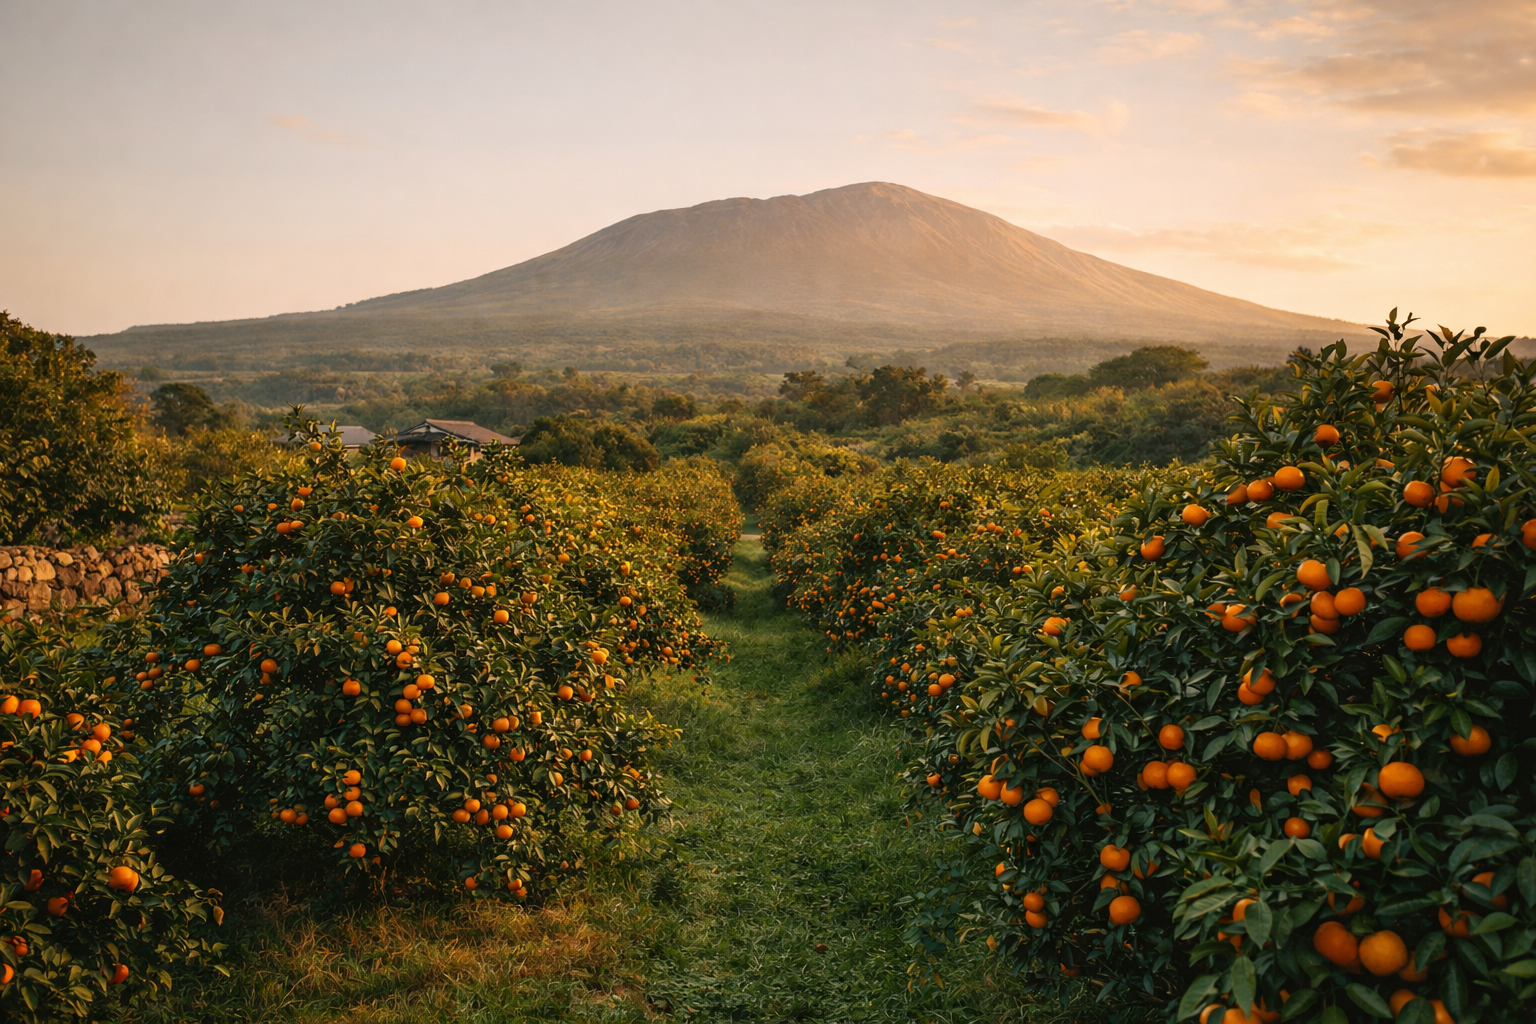
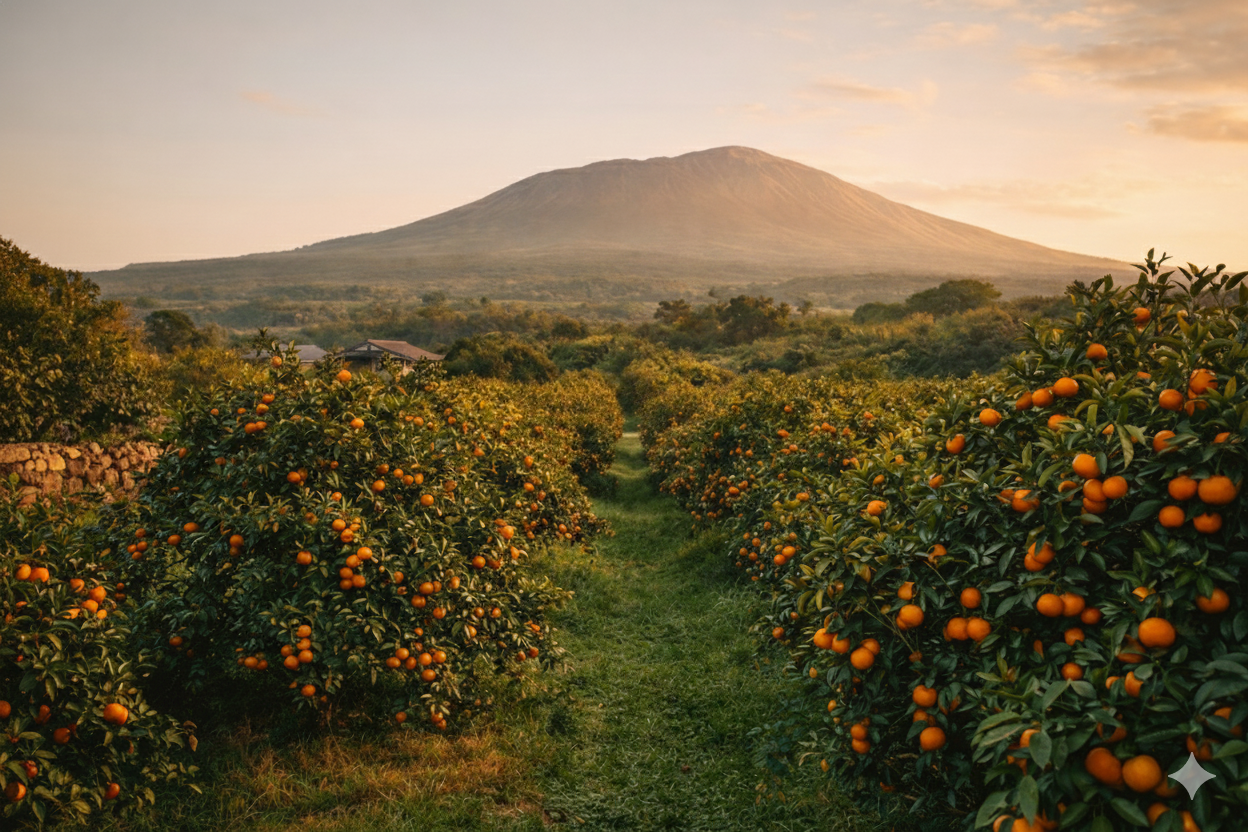
design jeju gyul 2

diff --git a/jeju-gyul-site/src/index.css b/jeju-gyul-site/src/index.css
@@ -28,10 +28,12 @@ a:hover {
 
 body {
   margin: 0;
-  display: flex;
-  place-items: center;
+  padding: 0;
+  display: block; 
+  width: 100%;
   min-width: 320px;
   min-height: 100vh;
+  overflow-x: hidden; /* 가로 스크롤 방지 */
 }
 
 h1 {
@@ -119,11 +121,12 @@ button:focus-visible {
   letter-spacing: 0.0.3em;   /* 🔥 글자 간격 */
   color: #222;
   cursor: pointer;
+  transition: color 0.3s ease; /* 부드러운 색상 변경을 위해 추가 */
 }
 
 /* hover 시 컬러 */
 .header-nav > ul > li:hover {
-  color: #ff7a00;
+  color: #2D5A27;
 }
 
 /* 2차 메뉴 */
@@ -131,10 +134,11 @@ button:focus-visible {
   position: absolute;
   top: 140%;
   left: 0;
-  background: white;
+  background: #ffffffef;
   padding: 12px 0;
   min-width: 160px;
   border-radius: 12px;
+  border-top: 3px solid #446140;
   box-shadow: 0 10px 30px rgba(0,0,0,0.08);
   list-style: none;
   display: block;
@@ -159,46 +163,150 @@ button:focus-visible {
   color: #444;
   white-space: nowrap;
   text-align: left;
+  transition: all 0.2s ease;
 }
 
 .header-nav ul li ul li:hover {
-  background: #fff3e6;
-  color: #ff7a00;
+  background: #f0f5ee;
+  color: #2D5A27;
 }
-/* --------------------------------------------------------- */
+/* -------------------------------------------------------------------------- */
 .section {
   height: 100vh;
   width: 100%;
-  padding: 120px 96px;   /* 헤더 아래 여백 */
+  padding: 0;   /* 헤더 아래 여백 */
   box-sizing: border-box;
 }
 .section.history {
+  height: 100vh;
+  width: 100vw;
   background-size: cover;
   background-position: center;
-  color: white;
-  background-size: 150% auto;
-  background-repeat: no-repeat;
   display: flex;
   flex-direction: column;
-  justify-content: center;
-  gap: 24px;
+  /* 가로 세로 정중앙 배치 */
+  justify-content: center; 
+  align-items: center;
+  text-align: center;
+  
+  /* 중요: 기존 padding 120px 96px; 때문에 아래로 밀렸던 것을 제거합니다 */
+  padding: 0 20px; 
+  
+  /* 중앙에서 약간 위로 올리고 싶을 때 사용하는 팁 */
+  padding-bottom: 5vh; 
 }
 .section.products {
   background: #fff7ed;   /* 감귤 껍질 톤 */
 }
 
+/* 제목 스타일 수정 */
 .section h2 {
-  font-size: 36px;
-  margin-bottom: 40px;
+  font-size: 80px;
+  font-family: 'Times New Roman', Times, serif;
+  color: #ff7a00;
+  /* 기존 margin-bottom: 40px;가 너무 넓다면 20px 정도로 줄입니다 */
+  margin-bottom: 60px; 
   position: relative;
 }
 
+/* 제목 밑의 오렌지 라인을 중앙으로 */
+/* 오렌지 라인 중앙 정렬 */
 .section h2::after {
   content: "";
   position: absolute;
-  bottom: -20px;
-  left: 0;
-  width: 80px;
-  height: 4px;
+  bottom: -25px;
+  left: 50%;
+  transform: translateX(-50%);
+  width: 100px;
+  height: 5px;
   background: #ff7a00;
+}
+
+/* 본문 텍스트 스타일 */
+/* 텍스트들 사이의 간격 조정 */
+/* 본문 텍스트 스타일 공통 */
+.section p {
+  color: white;
+  line-height: 1.6;
+  word-break: keep-all; /* 단어 단위 줄바꿈 */
+}
+/* 상단 문구: 한라산 바람과 햇살... */
+.section p.sub-title {
+  font-size: 2rem;   /* 크기 키움 */
+  font-weight: 500;
+  font-family: 'Times New Roman', Times, serif;
+  margin-top: 40px;    /* 제목과 거리를 둬서 아래로 내림 */
+  opacity: 0.9;
+}
+
+/* 하단 문구: 한라봉, 레드향... */
+.section p.description {
+  font-size: 1.5rem;  /* 살짝 작게 해서 밸런스 유지 */
+  margin-top: 10px;
+  font-weight: 300;
+  opacity: 0.8;
+}
+
+/* ---------------------------------------------------------------------------- */
+
+/* 제품 섹션 배경 및 여백 */
+.product-section {
+  padding: 100px 5%;
+  background-color: #dfd7d7; /* 아주 연한 귤색 배경 */
+}
+
+/* 카드 스타일: 가로 배치 */
+.product-card {
+  display: flex;
+  align-items: flex-start; /* 상단 정렬 */
+  margin-bottom: 25px;
+  border-radius: 12px;
+  overflow: hidden; /* 이미지가 튀어나오지 않게 */
+  box-shadow: 0 4px 20px rgba(0,0,0,0.05);
+  transition: all 0.3s ease;
+  padding: 50px; /* 카드 안쪽 전체 여백 */
+  background:
+    radial-gradient(circle at 30% 20%, rgba(255, 210, 160, 0.08), transparent 60%),
+    #FFF6EB;
+}
+
+.product-card:hover {
+  transform: translateX(10px); /* 호버 시 옆으로 살짝 미는 효과 */
+}
+
+/* 사진 영역: 크기를 제한해서 왼쪽으로 밀기 */
+.product-image-side {
+  width: 400px; /* 사진 크기를 여기서 조절하세요 */
+  height: 250px;
+  flex-shrink: 0; /* 사진이 찌그러지지 않게 고정 */
+}
+
+.product-image-side img {
+  width: 100%;
+  height: 100%;
+  object-fit: cover; /* 사진이 비율에 맞춰 꽉 차게 */
+}
+
+/* 텍스트 영역: 남은 공간 모두 차지 */
+.product-text-side {
+  padding: 0 40px;
+  flex-grow: 1;
+  text-align: left;
+}
+
+.product-text-side h3 {
+  font-family: 'Times New Roman', 'Noto Serif KR', serif;
+  font-size: 32px;    /* 제목 크기 확장 */
+  font-weight: 700;
+  color: #2D5A27;    /* 귤잎 색상 */
+  margin: 0 0 20px 0; /* 위쪽 여백은 0, 아래쪽만 20px */
+}
+
+.product-text-side p {
+  font-size: 18px;
+  font-family: 'Franklin Gothic Medium', 'Arial Narrow', Arial, sans-serif;
+  color: #444;
+  line-height: 1.8;
+  margin: 0;         /* 기본 마진 제거 */
+  word-break: keep-all;
 }

diff --git a/jeju-gyul-site/src/components/Hero/HeroSection.tsx b/jeju-gyul-site/src/components/Hero/HeroSection.tsx
@@ -5,18 +5,36 @@ export default function HeroSection() {
     <section
       className="section history"
       style={{
+        /* 배경 이미지 설정 */
         backgroundImage: `
           linear-gradient(rgba(0,0,0,0.45), rgba(0,0,0,0.45)),
           url(${hisTory})
-        `
+        `,
+        /* 꽉 채우기 위한 강제 설정 */
+        width: '100vw',        // 화면 가로 100% 강제
+        height: '100vh',       // 화면 세로 100% 강제
+        backgroundSize: 'cover',   // 비율 깨짐 방지하며 꽉 채움
+        backgroundPosition: 'center', // 중앙 기준
+        backgroundRepeat: 'no-repeat',
+        margin: '0',
+        padding: '0',
+        display: 'flex',
+        flexDirection: 'column',
+        justifyContent: 'center',
+        alignItems: 'center',
+        color: 'white',
+        position: 'relative',
+        left: '50%',
+        right: '50%',
+        marginLeft: '-50vw',   // 부모 요소가 좁아도 화면 끝까지 강제로 늘리는 트릭
+        marginRight: '-50vw'
       }}
     >
       <h2 className='section h2'>제주에서 온 가장 달콤한 귤</h2>
-      <p>
+      <p className='sub-title'>
         한라산 바람과 햇살로 키운 프리미엄 감귤 브랜드,
         JEJU GYUL
       </p>
-
       <p>
         한라봉, 레드향, 천혜향까지 —
         제주가 키운 최고의 귤을 만나보세요.

diff --git a/jeju-gyul-site/src/components/Product/ProductCard.tsx b/jeju-gyul-site/src/components/Product/ProductCard.tsx
@@ -6,12 +6,19 @@ interface Props {
 
 export default function ProductCard({ product }: Props) {
   return (
+  <section className="product-section">  
     <div className="product-card">
-      {product.image && (
-        <img src={product.image} alt={product.name} />
-      )}
-      <h3>{product.name}</h3>
-      <p>{product.description}</p>
+      <div className="product-image-side">
+        {product.image && (
+          <img src={product.image} alt={product.name} />
+        )}
+      </div>
+
+      <div className="product-text-side">
+        <h3>{product.name}</h3>
+        <p>{product.description}</p>
+      </div>
     </div>
+  </section>  
   )
 }

diff --git a/jeju-gyul-site/src/components/Product/ProductSection.tsx b/jeju-gyul-site/src/components/Product/ProductSection.tsx
@@ -1,6 +1,6 @@
 import type { Product } from '../../types/product'
 import ProductCard from './ProductCard'
-import mainHalla from '../../assets/mainhalla.jpg'
+import mainHalla from '../../assets/AIHalla.jpg'
 import mainRedHalla from '../../assets/redhalla.jpg'
 import mainChanHalla from '../../assets/chanhalla.jpg'
 const products: Product[] = [
@@ -27,8 +27,6 @@ const products: Product[] = [
 export default function ProductSection() {
   return (
     <section>
-      <h2>귤 소개</h2>
-
       {products.map(product => (
         <ProductCard key={product.id} product={product} />
       ))}
